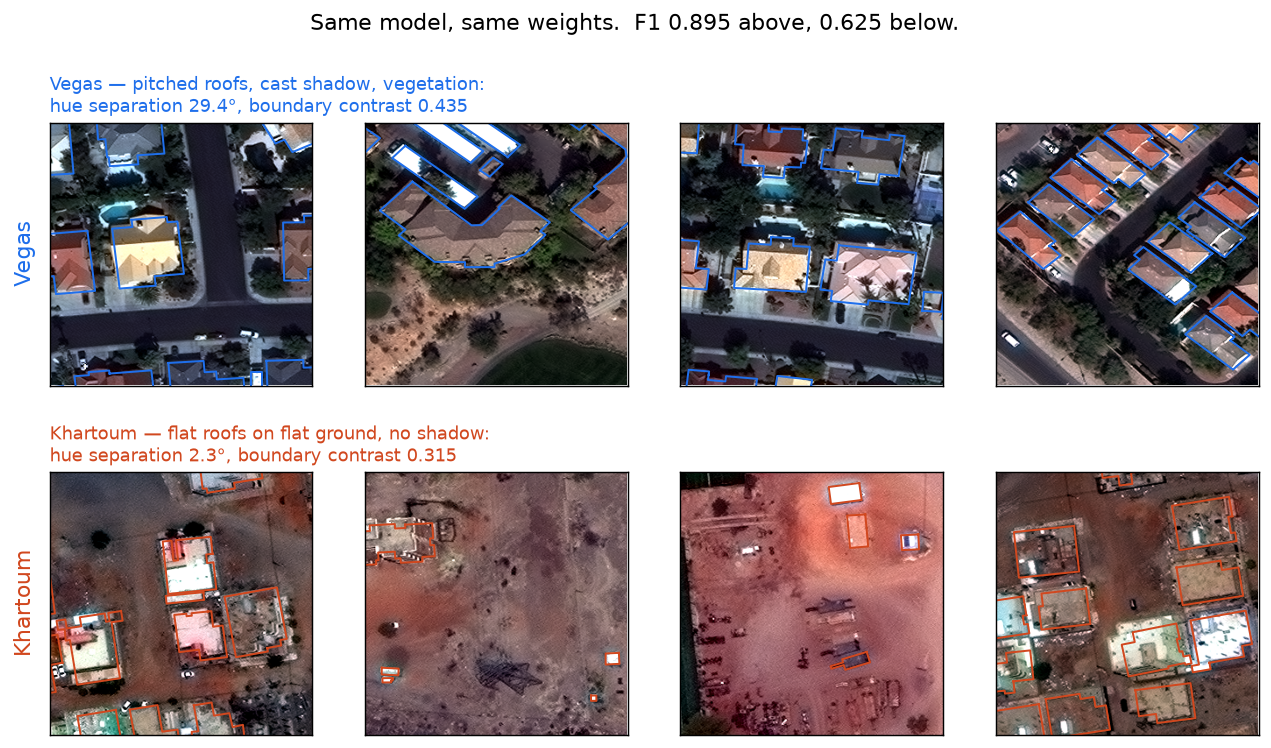
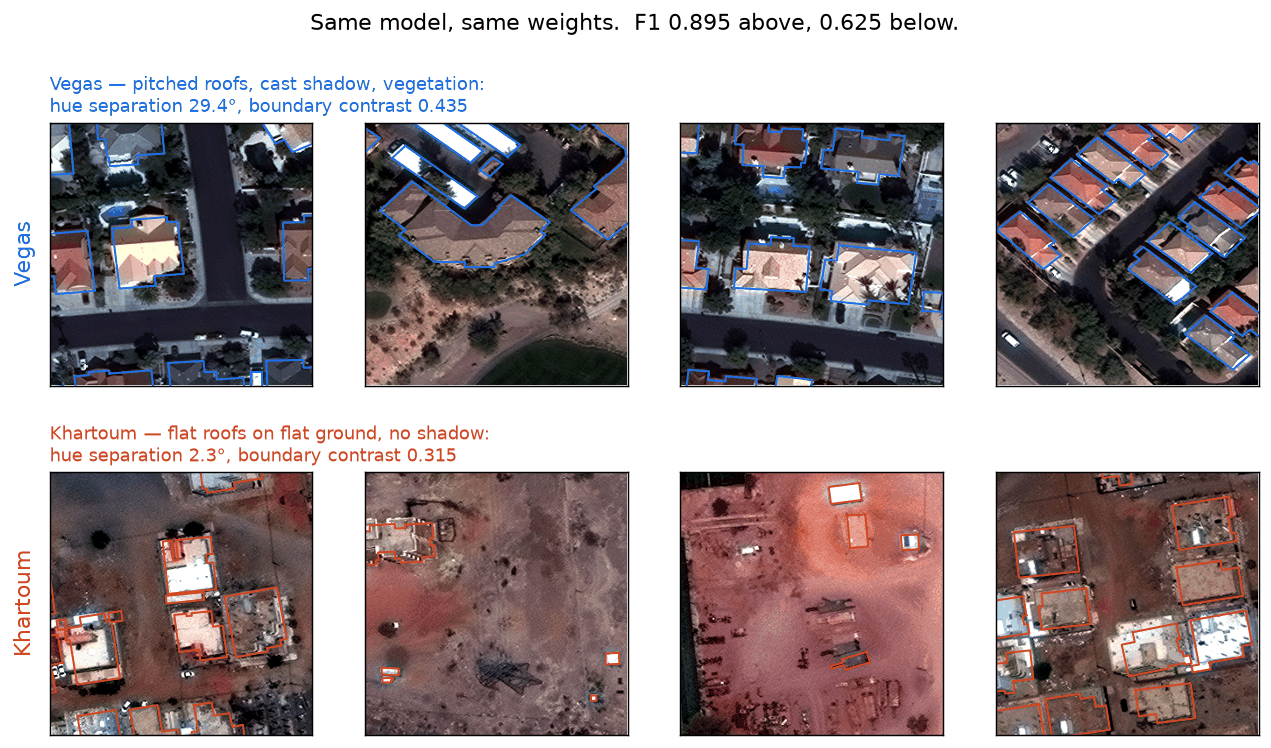
Slim published figures, untrack generated ones, and remove machine paths
Recompresses the figures referenced by the posts to an adaptive 256-colour
palette. Total drops from 14.1 MB to 5.9 MB, a 58 percent saving. Verified
against the originals rather than assumed: mean per-channel error is under 2 of
255 on every file, the 99th percentile is at most 18, and the share of channel
values differing by more than 32, which is where banding would become visible,
peaks at 0.27 percent. The large maxima are isolated pixels at sharp colour
edges.

Untracks the figures directory, which held a second copy of every published
image plus one unreferenced render. Scripts still write there; only the copies
a post references are tracked, under posts/figures, so no image is stored twice
in the repository.

Removes machine-specific absolute paths from tracked files: a home directory
named in a run.sh comment, and a Windows path to the RVT generation script in
the lab notebook, which now names the script instead.

diff --git a/LAB_NOTEBOOK.md b/LAB_NOTEBOOK.md
@@ -2119,7 +2119,7 @@ said nothing about it.
 ### Two routes to portability, one of them untried
 
 1. **Specify the input.** Publish the recipe, run it on new data. Achievable
-   here: `C:\g1\tools\GLiHT_rvt.py` documents the pipeline end to end and the
+   here: the project RVT generation script documents the pipeline end to end and the
    DEMs are on disk at three resolutions. The cost is that every user must run
    that pipeline.
 
